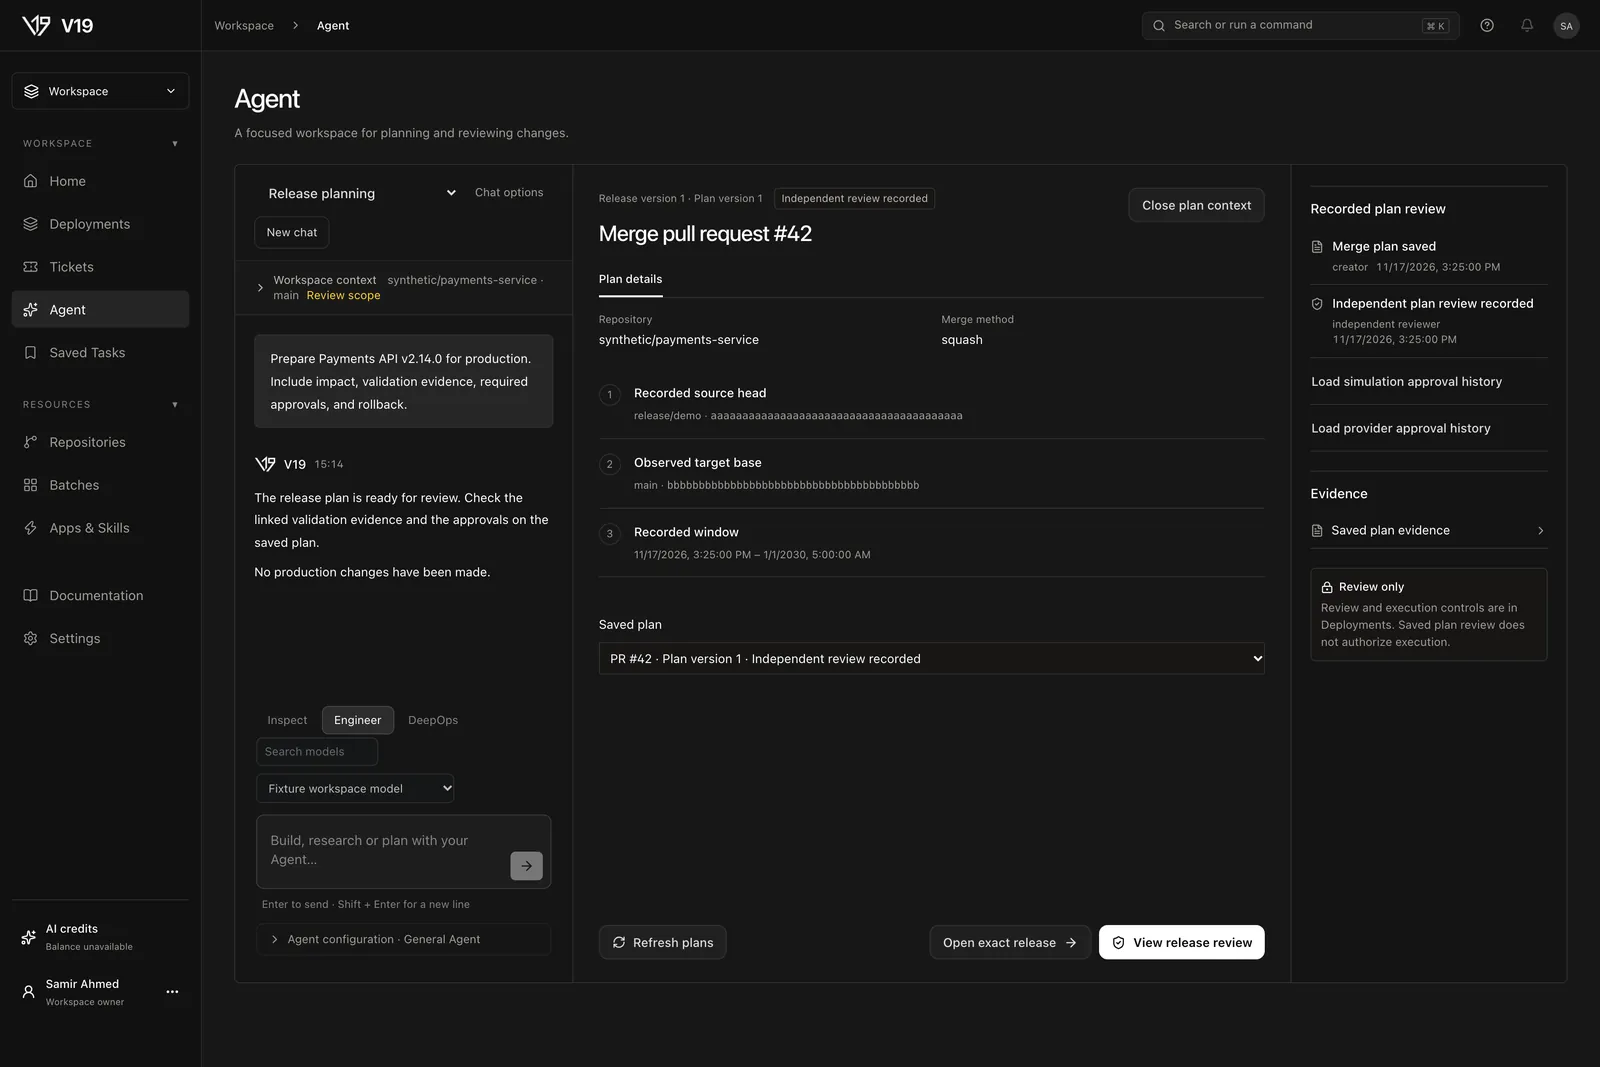
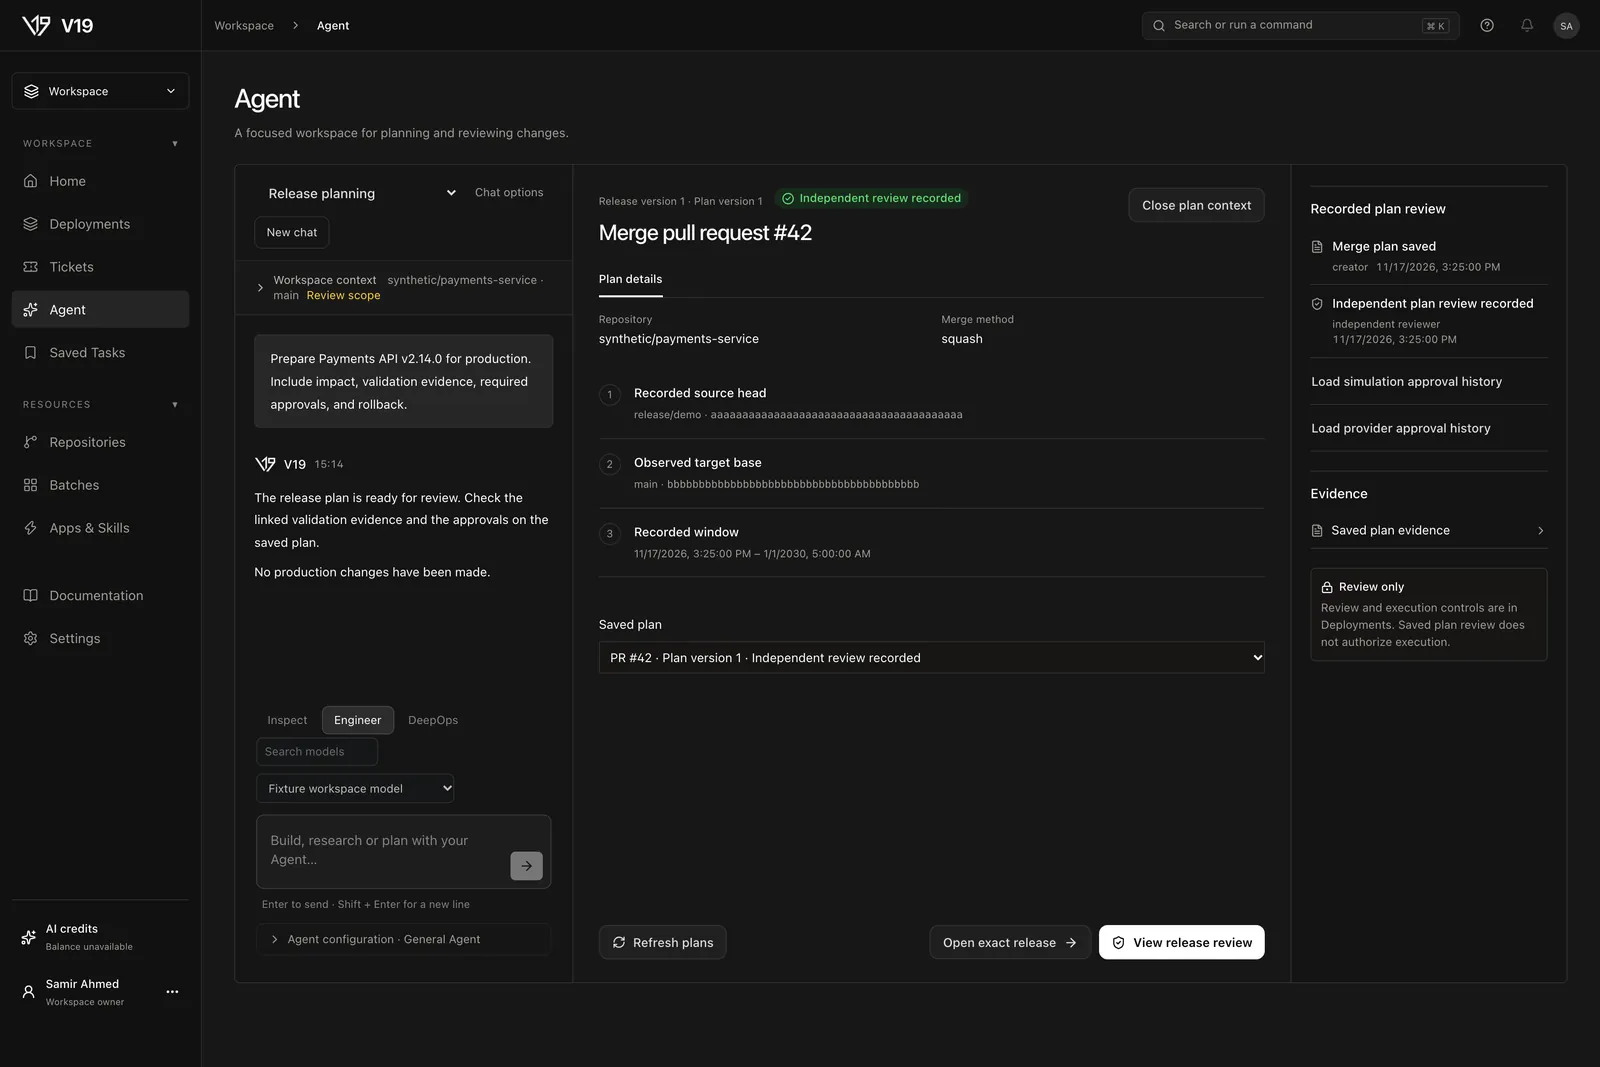
Apply status colours and shapes to Home, Saved Tasks and Agent
Shared tones now use the existing release-state palette (the same inks and
surfaces Batches and Deployments workflow states already use, dark and light).
Home recent activity shows request-state badges (Submitted amber clock, Closed
neutral archive). Saved Tasks colours the last-run line by stored status only
(completed green, failed red, in progress blue). Agent plan state is a badge:
independent review recorded green check, pending amber clock, rejected red,
unverified history amber warning, stale or cancelled neutral.

All desktop tests pass (3,879 passed, 183 skipped); desktop build passes.
Guide screenshots refreshed.

diff --git a/desktop/src/components/SavedBotTaskWorkspace.tsx b/desktop/src/components/SavedBotTaskWorkspace.tsx
@@ -23,6 +23,14 @@ interface Props {headerActionsTarget?:HTMLDivElement|null;canManageActions?:bool
 /** Saved task editing, explicit tool-free Send, and the separate fixed readiness report. */
 const runFamilyLabel:Record<SavedBotTaskLastRunDto["family"],string>={ai_task:"AI task",readiness_run:"Readiness run",pull_request_evidence:"Pull request evidence"};
 /** Recorded facts only: run family, stored status and when it was last recorded. */
+/** Colour follows the stored status only: completed green, failed red, in progress blue; anything else stays neutral. */
+export function lastRunTone(run:SavedBotTaskLastRunDto|null):"green"|"red"|"blue"|undefined{
+ if(!run)return undefined;
+ if(/^(completed|succeeded|success)$/.test(run.status))return "green";
+ if(/^(failed|failure|error|cancelled|timed_out)$/.test(run.status))return "red";
+ if(/^(queued|running|in_progress|pending)$/.test(run.status))return "blue";
+ return undefined;
+}
 export function lastRunLabel(run:SavedBotTaskLastRunDto|null,currentVersion:number):string{
  if(!run)return "No recorded runs";
  const version=run.taskVersion===currentVersion?"this version":`version ${run.taskVersion}`;
@@ -259,7 +267,7 @@ export function SavedBotTaskWorkspace({headerActionsTarget,recoveryIdentity,obse
     {listState==="ready"&&rows.length===0&&<p className="text-xs leading-5 text-zinc-500">No saved task drafts yet. Save a draft when you are ready.</p>}
     {listState==="ready"&&rows.length>0&&visibleRows.length===0&&<p className="text-xs text-zinc-500">No loaded tasks match.</p>}
     {listState==="error"&&<p className="text-xs leading-5 text-zinc-500">Saved tasks could not be loaded. Refresh to retry; the editor is retained.</p>}
-    <ul className="studio-task-rows">{visibleRows.map(task=><li key={task.id}><button data-help-id="bot.workspace.task-row" type="button" aria-label={`Open saved task ${task.title}`} aria-current={selected?.id===task.id?"true":undefined} className={`w-full rounded-lg p-3 text-left text-sm text-zinc-200 disabled:opacity-40 ${selected?.id===task.id?'bg-white/5':'hover:bg-white/5'}`} disabled={Boolean(busy)||Boolean(pending)||aiLocked} onClick={event=>requestOpen(task.id,event.currentTarget)}><FileText aria-hidden="true" size={17}/><span className="min-w-0"><span className="block wrap-break-word">{task.title}</span><span className="mt-1 block text-[11px] text-zinc-400">Draft · version {task.version}</span>{task.id in lastRuns&&<span data-help-id="bot.workspace.task-last-run" className="mt-0.5 block text-[11px] text-zinc-400">{lastRunLabel(lastRuns[task.id],task.version)}</span>}</span></button></li>)}</ul>
+    <ul className="studio-task-rows">{visibleRows.map(task=><li key={task.id}><button data-help-id="bot.workspace.task-row" type="button" aria-label={`Open saved task ${task.title}`} aria-current={selected?.id===task.id?"true":undefined} className={`w-full rounded-lg p-3 text-left text-sm text-zinc-200 disabled:opacity-40 ${selected?.id===task.id?'bg-white/5':'hover:bg-white/5'}`} disabled={Boolean(busy)||Boolean(pending)||aiLocked} onClick={event=>requestOpen(task.id,event.currentTarget)}><FileText aria-hidden="true" size={17}/><span className="min-w-0"><span className="block wrap-break-word">{task.title}</span><span className="mt-1 block text-[11px] text-zinc-400">Draft · version {task.version}</span>{task.id in lastRuns&&<span data-help-id="bot.workspace.task-last-run" className="mt-0.5 block text-[11px] text-zinc-400 status-text" data-tone={lastRunTone(lastRuns[task.id])}>{lastRunLabel(lastRuns[task.id],task.version)}</span>}</span></button></li>)}</ul>
     {nextCursor&&<button data-help-id="bot.workspace.tasks-more" type="button" className="btn-secondary mt-3" disabled={Boolean(busy)} onClick={()=>void loadList(nextCursor)}>More saved tasks</button>}
    </div>
   </section>

diff --git a/desktop/src/views/AgentPlanContextView.tsx b/desktop/src/views/AgentPlanContextView.tsx
@@ -7,6 +7,7 @@ import {simulationApprovalEventLabels} from "../components/ReleaseExecutionAppro
 import {providerApprovalEventLabels} from "../components/ReleaseProviderMergeApproval";
 import {hasCompleteOperationPlanHistory, isOperationPlanList, operationPlanEventLabels, type OperationPlanList, type ReleaseOperationPlanDto} from "../lib/releaseOperationPlanContract";
 import type {SavedReleaseLink} from "./WelcomeView";
+import { StatusBadge, type StatusShape, type StatusTone } from "../components/StatusBadge";
 import "./AgentPlanContextView.css";
 
 const labels: Record<ReleaseOperationPlanDto["status"], string> = {
@@ -22,6 +23,14 @@ function verifiedPlanHistory(row: ReleaseOperationPlanDto) {
   if (row.status === "reviewed" &&
     !row.history.some(event => event.type === "reviewed" && event.actorKind === "independent_reviewer")) return null;
   return row.history;
+}
+
+function planTone(row: ReleaseOperationPlanDto): {tone: StatusTone; shape: StatusShape} {
+  if (!verifiedPlanHistory(row)) return {tone: "amber", shape: "attention"};
+  if (row.status === "reviewed") return {tone: "green", shape: "success"};
+  if (row.status === "pending_review") return {tone: "amber", shape: "waiting"};
+  if (row.status === "rejected") return {tone: "red", shape: "failure"};
+  return {tone: "neutral", shape: "closed"};
 }
 
 function planState(row: ReleaseOperationPlanDto) {
@@ -84,7 +93,7 @@ export function AgentPlanContextView({release, workspaceId, ownerConfig, revisio
         <div className="studio-agent-plan-title">
           {row && <div className="studio-agent-plan-record-meta">
             <p>Release version {row.requestVersion} · Plan version {row.version}{row.requestVersion !== release.version ? " · Earlier release version" : ""}</p>
-            <span className="studio-agent-plan-state">{planState(row)}</span>
+            <span className="studio-agent-plan-state">{(() => { const t = planTone(row); return <StatusBadge tone={t.tone} shape={t.shape}>{planState(row)}</StatusBadge>; })()}</span>
           </div>}
           <h2 ref={heading} tabIndex={-1}>{pr ? `Merge pull request #${pr.number}` : "Saved release plans"}</h2>
           {!row && <p>Release version {release.version} · Read-only context</p>}

diff --git a/desktop/src/styles.css b/desktop/src/styles.css
@@ -1579,17 +1579,17 @@ html[data-theme="light"] :is(.studio-deployments, .studio-batches-workspace) {
 /* Shared status tones (matte palette from Tickets). Colour always pairs with a shape and a label;
    use only for a recorded state: blue = in progress, green = recorded success, amber = waiting or needs attention, red = recorded failure. */
 :root {
-  --status-blue: #73b8ff; --status-blue-surface: #17283c;
-  --status-green: #a0d9aa; --status-green-surface: #1c3025;
-  --status-amber: #f8d484; --status-amber-surface: #322a1c;
-  --status-red: #ffa48e; --status-red-surface: #3b2723;
+  --status-blue: #5ad8ff; --status-blue-surface: #142830;
+  --status-green: #65df79; --status-green-surface: #172b1c;
+  --status-amber: #ffcc66; --status-amber-surface: #2d2516;
+  --status-red: #fa8379; --status-red-surface: #301e1c;
   --status-neutral: rgb(var(--neutral-zinc-300)); --status-neutral-surface: rgb(var(--neutral-white) / .06);
 }
 html[data-theme="light"] {
-  --status-blue: #0e558d; --status-blue-surface: #e8f3ff;
-  --status-green: #255d32; --status-green-surface: #edf8ef;
-  --status-amber: #654600; --status-amber-surface: #fff4d6;
-  --status-red: #872f23; --status-red-surface: #fff0ea;
+  --status-blue: #076384; --status-blue-surface: #ebf7ff;
+  --status-green: #1b7133; --status-green-surface: #edf8ef;
+  --status-amber: #75530a; --status-amber-surface: #fff5dc;
+  --status-red: #9d332d; --status-red-surface: #fff0ee;
   --status-neutral: rgb(var(--neutral-zinc-600)); --status-neutral-surface: rgb(0 0 0 / .05);
 }
 .status-badge { display: inline-flex; align-items: center; gap: 6px; padding: 2px 8px; border-radius: 999px; font-size: 12px; line-height: 18px; font-weight: 500; white-space: nowrap; color: var(--status-neutral); background: var(--status-neutral-surface); }

diff --git a/desktop/src/views/WelcomeView.tsx b/desktop/src/views/WelcomeView.tsx
@@ -1,4 +1,5 @@
 import {ReadableTime} from "../components/ReadableTime";
+import { StatusBadge, releaseRequestTone } from "../components/StatusBadge";
 import { ArrowRight, Box, ChevronRight, GitBranch, History, Layers, ListChecks, Sparkles, SquareStack } from "lucide-react";
 import { useEffect, useLayoutEffect, useRef, useState } from "react";
 import { z } from "zod";
@@ -374,7 +375,7 @@ function StudioWelcomeView({ active = true, returnActivity, onBuild, onBot, onAu
               className="studio-home-release-grid studio-home-release-row">
               <span className="studio-home-release-title"><Box aria-hidden size={16} /><span>{release.title}{" "}<small>v{release.version}</small></span></span>
               <span><span className="studio-home-environment">{release.environment || "Unspecified"}</span></span>
-              <span className="capitalize">{release.status.replaceAll("_", " ")}</span>
+              <span>{(() => { const t = releaseRequestTone(release.status); return <StatusBadge tone={t.tone} shape={t.shape}><span className="capitalize">{release.status.replaceAll("_", " ")}</span></StatusBadge>; })()}</span>
               <span>{Number.isFinite(updated.getTime()) ? <time dateTime={updated.toISOString()}>{updated.toLocaleString(undefined, { month: "short", day: "numeric", hour: "numeric", minute: "2-digit" })}</time> : "Unavailable"}</span>
             </button>
           </li>;

diff --git a/desktop/src/views/AgentPlanContextView.css b/desktop/src/views/AgentPlanContextView.css
@@ -35,13 +35,7 @@ html:not([data-theme="light"]) .studio-agent-plan {
   gap: 6px 12px;
   font-size: 11px;
 }
-.studio-agent-plan-state {
-  padding: 2px 7px;
-  border: 1px solid var(--studio-plan-divider);
-  border-radius: 4px;
-  background: rgb(var(--axiom-surface));
-  color: rgb(var(--neutral-zinc-300));
-}
+.studio-agent-plan-state { display: inline-flex; }
 .studio-agent-plan-facts-heading {
   border-bottom: 1px solid var(--studio-plan-divider);
   font-size: 12px;
